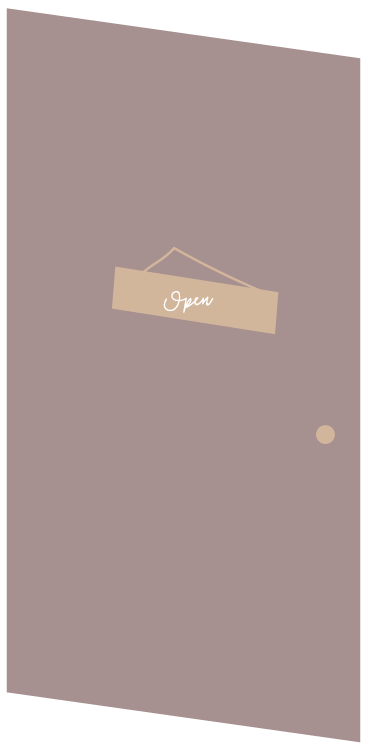
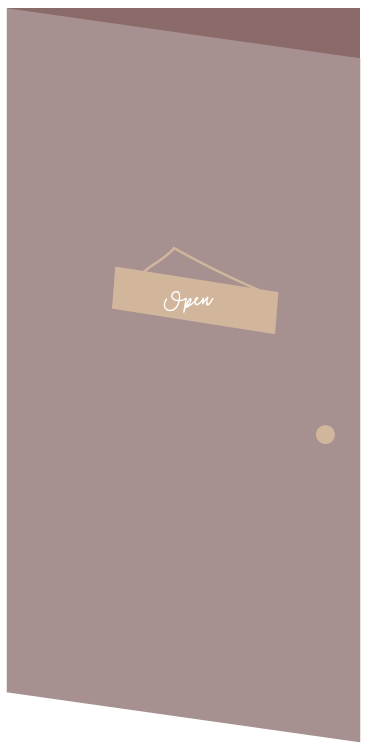
added door opening

Changed region(s): [[0.0596, 0.0, 0.9837, 0.0918]]

diff --git a/src/app/app.component.html b/src/app/app.component.html
@@ -29,7 +29,29 @@
 </div>
 
 <div>
-  <a href="https://www.etsy.com/listing/1368578550/2023-bunny-poster-new-year-poster-rabbit?click_key=77e56582bc6ecc76eb2768a51bce0cbcdd6ffe5a%3A1368578550&click_sum=97841874&ref=shop_home_active_3" target="_blank" style="text-decoration: none;">
+  <a href="https://www.etsy.com/shop/theespressco" target="_blank" style="text-decoration: none;">
+  <img 
+    src="assets/dooropen.png" 
+    alt="Door Open" 
+    style="
+      position: absolute; 
+      top: 63.25%; 
+      left: 50%; 
+      transform: translate(-50%, -50%); 
+      z-index: 10; 
+      height: 240px; 
+      width: auto; 
+      opacity: 0; 
+      transition: opacity 0.3s;
+      cursor: pointer;"
+    onmouseover="this.style.opacity='1'" 
+    onmouseout="this.style.opacity='0'"
+  />
+  </a>
+</div>
+
+<div>
+  <a href="https://theespressco.mailerpage.io/my-work/no-1-new-years">
   <img 
     src="assets/hopscotch.png" 
     alt="Bunnies Playing Hopscotch" 
@@ -67,6 +89,9 @@ style="
     onmouseover="this.style.opacity='1'" 
     onmouseout="this.style.opacity='0'"
 />
+</a>
+
+<a href="https://theespressco.mailerpage.io/about" target="_blank" style="text-decoration: none;">
 <img src="assets/bluebear.gif" alt="Blue Bear" 
 style="
       position: absolute; 
@@ -81,5 +106,5 @@ style="
       cursor: pointer;"
     onmouseover="this.style.opacity='1'" 
     onmouseout="this.style.opacity='0'"/>
-
+</a>
 <router-outlet />
